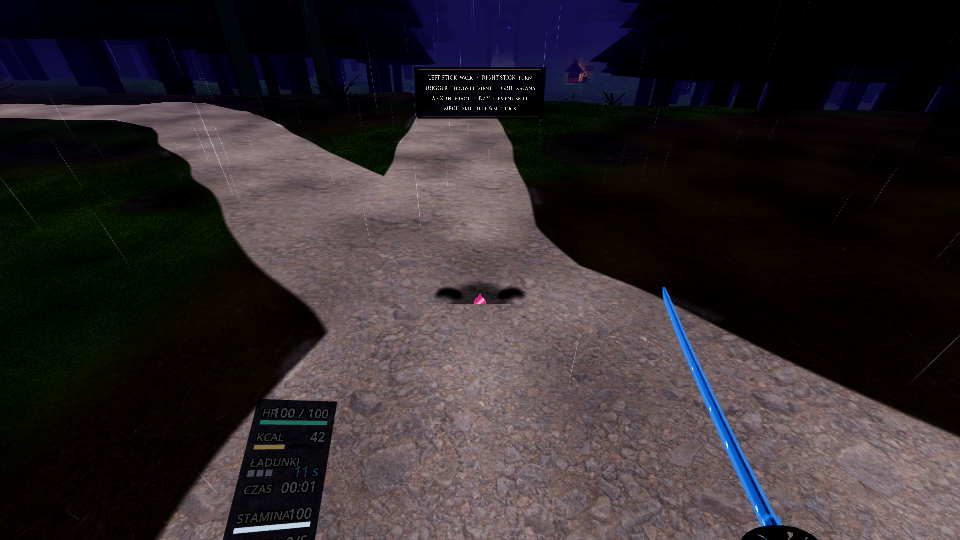
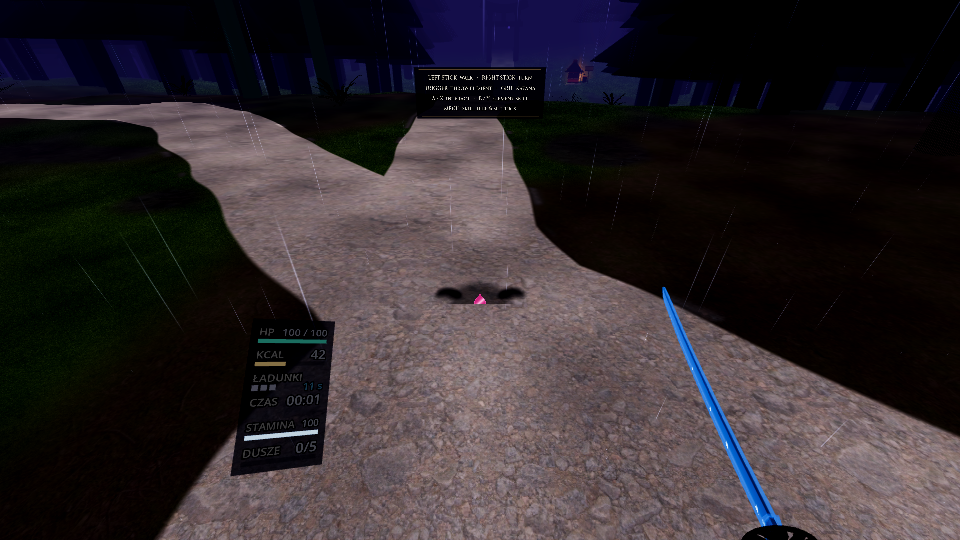
fix(f6): wrist rows keep a fixed label–value gap (value shrinks to fit), ŁADUNKI value clears the label, desktop readout higher so the whole plate is in frame; gap check in wrist_hud_test, rows incl. DUSZE; new shots

Changed region(s): [[0.2188, 0.5926, 0.375, 1.0]]

diff --git a/docs/f6/README.md b/docs/f6/README.md
@@ -22,6 +22,10 @@ Shots (game, `tests/point15_wrist_screenshot.tscn`, same camera as F1):
 `post_wrist_stamina_empty.png`. The scene also checks pixels: row in frame, bar luminance
 full 0.816 vs empty 0.003.
 
-Weak / todo: label "STAMINA" and the value "100" touch (no gap, like "HP100 / 100" already);
-the desktop shot crops the bottom of the plate (DUSZE row). xr_play_test / wrist_hud_test
+Rev. 1 (review): every row keeps a fixed 4.5 mm gap between label (left) and value (right edge);
+a value that would not fit shrinks first, then the label (`DiegeticHud._fit_row_text`, sizes set
+only on change). ŁADUNKI: the value sits on the pips' line at a smaller size, clear of the label.
+Desktop readout hangs higher (DESKTOP_OFFSET y -0.07) so all 6 rows and the plate are in frame.
+wrist_hud_test checks the gap on every row (worst 5.2 mm). Weak: long values (HP "100 / 100",
+STAMINA "100") are now noticeably smaller than KCAL/CZAS values. xr_play_test / wrist_hud_test
 extended (sprint 5 s → 0 and ×0.6, rest → 100 in ~7.7 s, HUD value) but not run to the end here.
